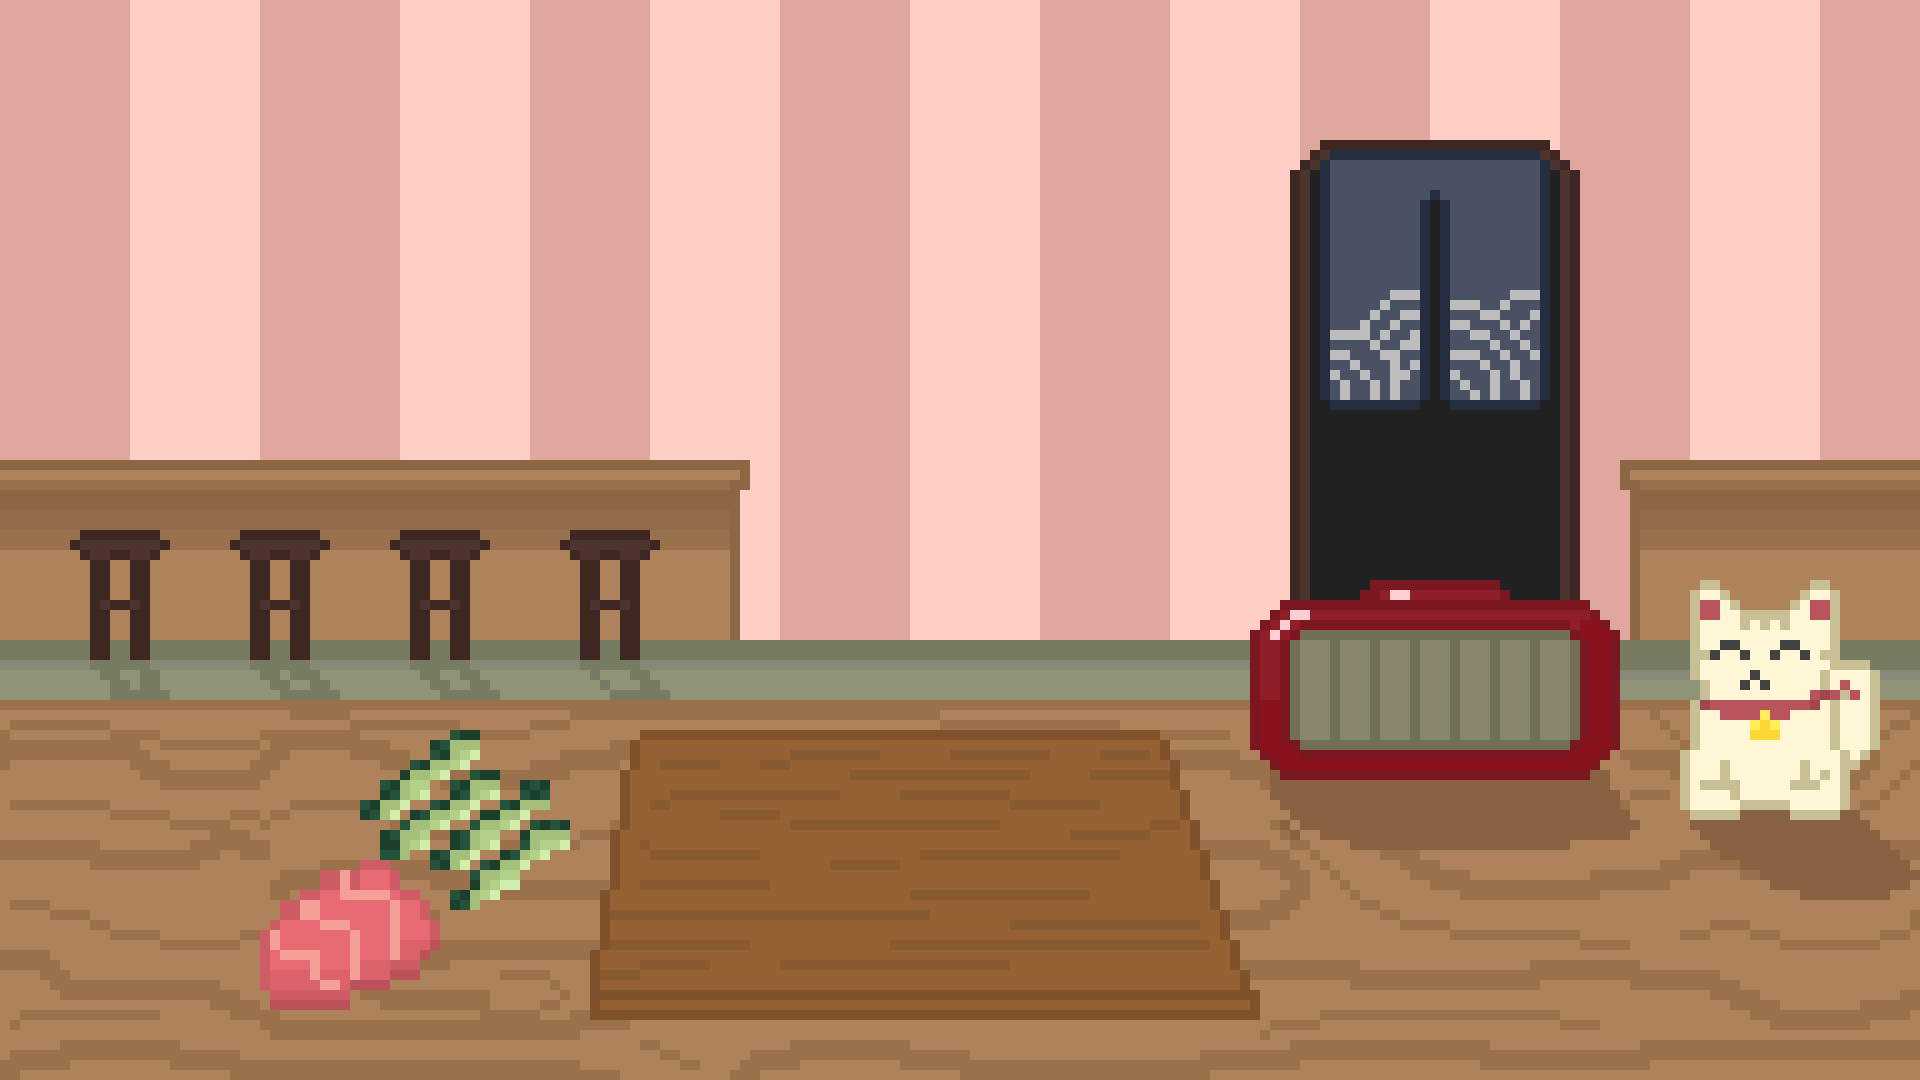
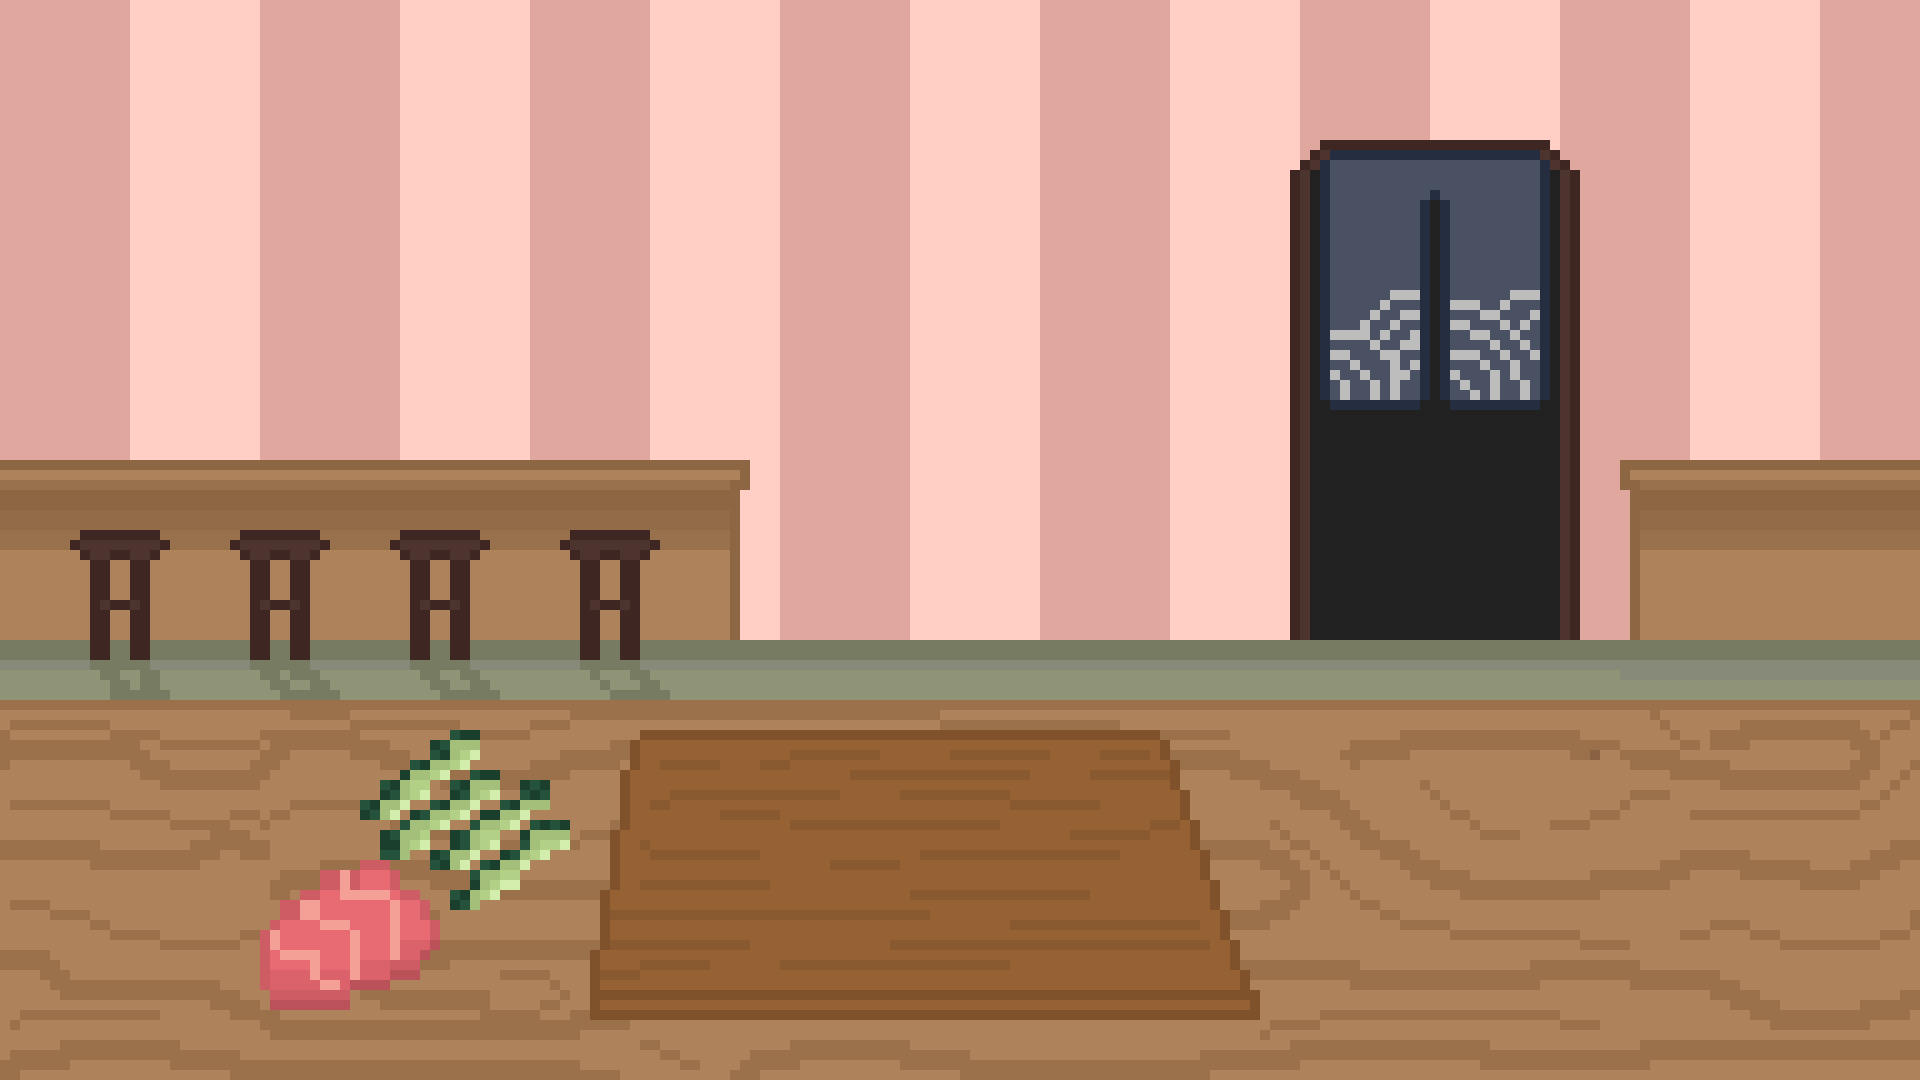
feat: Add new background images and update dashboard to support dynamic backgrounds

Changed region(s): [[0.625, 0.5194, 1.0, 0.8556]]

diff --git a/make-me-sushi-ui/src/components/Dashboard.css b/make-me-sushi-ui/src/components/Dashboard.css
@@ -8,7 +8,6 @@
   width: 100%;  
   height: 100%; 
   position: relative;
-  background-image: url('../assets/bg_dashboard.png'); 
   background-size: cover;
   background-position: center;
   background-repeat: no-repeat;
@@ -140,7 +139,7 @@
 }
 
 #maneki-dashboard { 
-  width: 150px; 
+  width: 130px; 
   image-rendering: pixelated;
   filter: drop-shadow(0px 8px 0px rgba(0,0,0,0.4));
   transition: transform 0.2s;
@@ -172,7 +171,7 @@
 .dashboard-clock-wrapper:active { transform: scale(0.95); }
 
 #timer-clock-image { 
-  width: 230px; 
+  width: 210px; 
   display: block; 
   image-rendering: pixelated;
   filter: drop-shadow(0px 10px 0px rgba(0,0,0,0.4));
@@ -180,7 +179,7 @@
 
 .digital-clock-text {
   position: absolute;
-  font-size: 28px; /* Çok hafif küçülttük ki ekranın dışına taşıyor gibi durmasın */
+  font-size: 25px; /* Çok hafif küçülttük ki ekranın dışına taşıyor gibi durmasın */
   color: #1a1a1a; /* Tam siyah yerine çok koyu bir LCD grisi */
   margin: 0;
   top: 44%;
@@ -311,4 +310,71 @@
   top: 50%;
   left: 50%;
   transform: translate(-50%, -50%);
+}
+
+/* =========================================================
+   DÜKKAN DEKORASYONLARI (YERLEŞİM - POSITIONING)
+========================================================= */
+
+/* Tüm dekorasyonların ortak özelliği */
+.placed-decor-item {
+  position: absolute;
+  pointer-events: none; /* Fareyle üzerine gelince tıklamayı engellemesin (arkadaki eşyalara tıklanabilsin) */
+  image-rendering: pixelated; /* Pixel art bozulmasın, keskin kalsın */
+  z-index: 1; /* Arka planın üstünde, HUD panellerinin altında dursun */
+}
+
+/* --- 1. BAMBU BİTKİSİ (Örn: Sol Alt Köşede dursun) --- */
+.decor-bamboo {
+  bottom: 33.5%;
+  left: 60%;
+  height: 250px; /* Boyutunu buradan ayarlayabilirsin */
+  z-index: 2;
+}
+
+/* --- 2. KATANA STANDI (Örn: Sağ Duvarda dursun) --- */
+.decor-katana {
+  top: 20%;
+  right: 65%;
+  height: 70px;
+  filter: drop-shadow(0px 8px 0px rgba(0,0,0,0.4));
+
+}
+
+/* --- 3. SAKURA TABLOSU (Örn: Orta Duvarda dursun) --- */
+.decor-sakura_painting {
+  top: 15%;
+  left: 38.5%;
+  height: 150px;
+}
+
+/* --- 4. BAYRAK / BANNER (Örn: Sol Üst Köşeden sarksın) --- */
+.decor-banner {
+  top: 5%;
+  left: 3%;
+  height: 200px;
+}
+
+/* --- 5. IŞIKLAR (Tavandan sarkan fenerler) --- */
+.decor-lights1 {
+  top: 0;
+  left: 20%;
+  height: 170px;
+}
+.decor-lights2 {
+  top: 0;
+  right: 0%;
+  height: 100px;
+}
+.decor-lights3 {
+  top: 0;
+  left: 20%;
+  height: 170px;
+}
+
+/* --- 6. MASA VE SANDALYELER (Örn: Sağ Alt Köşede) --- */
+.decor-chairs_table {
+  bottom: 34%;
+  right: 36%;
+  height: 200px;
 }

diff --git a/make-me-sushi-ui/src/components/Dashboard.jsx b/make-me-sushi-ui/src/components/Dashboard.jsx
@@ -4,6 +4,7 @@ import timerClock from '../assets/clock.png';
 import textBox from '../assets/textbox.png';
 import manekiHappy from '../assets/maneki_happy.png';
 import coinIcon from '../assets/coin.png';
+import defaultBg from '../assets/bg_dashboard.png'; // Orijinal varsayılan arka plan
 import PauseMenu from './PauseMenu';
 import SushiModal from './SushiModal';
 import StoreModal from './StoreModal';
@@ -43,34 +44,52 @@ export default function Dashboard({
   decorImages = {},
   unlockedDecorationIds = [],
   setUnlockedDecorationIds = () => {},
-  equippedDecorationIds = [], // Varsayılan değer eklendi
+  equippedDecorationIds = [], 
   setEquippedDecorationIds = () => {}
 }) {
 
-  // KRİTİK DEĞİŞİKLİK: Artık 'unlocked' (sahip olunan) listesine değil, 
-  // 'equipped' (takılı olan) listesine bakarak ekrana çiziyoruz.
+  // 1. Sadece 'equipped' (takılı olan) eşyaları bul
   const activeDecorations = decorationsMenu.filter(decor => 
     equippedDecorationIds.includes(decor.id || decor.Id)
   );
 
+  // 2. Takılı eşyalar arasında Type'ı 'Background' olanı bul
+  const equippedBackground = activeDecorations.find(decor => 
+    (decor.type || decor.Type || '').toLowerCase() === 'background'
+  );
+
+  // 3. Normal (duvara/yere konan) eşyaları ayır
+  const normalDecorations = activeDecorations.filter(decor => 
+    (decor.type || decor.Type || '').toLowerCase() !== 'background'
+  );
+
+  // 4. Arka plan URL'sini belirle (Kullanıcı bir şey taktıysa onu, takmadıysa default olanı kullan)
+  const currentBgUrl = equippedBackground 
+    ? decorImages[equippedBackground.imagePath || equippedBackground.ImagePath] 
+    : defaultBg;
+
   return (
-    <div className="fade-in dashboard-screen">
+    <div 
+      className="fade-in dashboard-screen" 
+      style={{ backgroundImage: `url(${currentBgUrl})` }}
+    >
       
       {/* =======================================================
-          TAKILI DEKORASYONLARIN EKRANA YERLEŞTİRİLMESİ
+          NORMAL DEKORASYONLARIN EKRANA YERLEŞTİRİLMESİ
       ======================================================= */}
-      {/* İleride CSS ile ".decor-type-floor", ".decor-type-wall" gibi sınıfları 
-          özelleştirip eşyaları dükkanın istediğin yerine dizebilirsin. */}
-      {activeDecorations.map(decor => {
-        const typeClass = (decor.type || decor.Type || 'general').toLowerCase();
+      {normalDecorations.map(decor => {
+        const imageKey = decor.imagePath || decor.ImagePath;
+        
+        // Dosya isminden benzersiz bir sınıf üretiyoruz. 
+        // Örn: 'decoration_bamboo.png' -> 'decor-bamboo'
+        const customClass = imageKey.replace('decoration_', 'decor-').replace('.png', '');
         
         return (
           <img 
             key={decor.id || decor.Id}
-            src={decorImages[decor.imagePath || decor.ImagePath]} 
+            src={decorImages[imageKey]} 
             alt={decor.name || decor.Name}
-            className={`placed-decor-item decor-type-${typeClass}`}
-            style={{ position: 'absolute', zIndex: 1 }} // CSS ile düzenlenene kadar sol üste atar
+            className={`placed-decor-item ${customClass}`}
           />
         );
       })}

diff --git a/make-me-sushi-ui/src/App.jsx b/make-me-sushi-ui/src/App.jsx
@@ -23,6 +23,8 @@ import decorLights1 from './assets/decoration_lights1.png';
 import decorLights2 from './assets/decoration_lights2.png';
 import decorLights3 from './assets/decoration_lights3.png';
 import decorSakura from './assets/decoration_sakura_painting.png';
+import bgGreen from './assets/bg_dashboard_green.png';
+import bgPink from './assets/bg_dashboard_pink.png';
 
 // Bileşenler
 import StartScreen from './components/StartScreen';
@@ -43,7 +45,9 @@ const DECOR_IMAGES = {
   'decoration_lights1.png': decorLights1,
   'decoration_lights2.png': decorLights2,
   'decoration_lights3.png': decorLights3,
-  'decoration_sakura_painting.png': decorSakura
+  'decoration_sakura_painting.png': decorSakura,
+  'bg_dashboard_green.png': bgGreen,
+  'bg_dashboard_pink.png': bgPink
 };
 
 function App() {